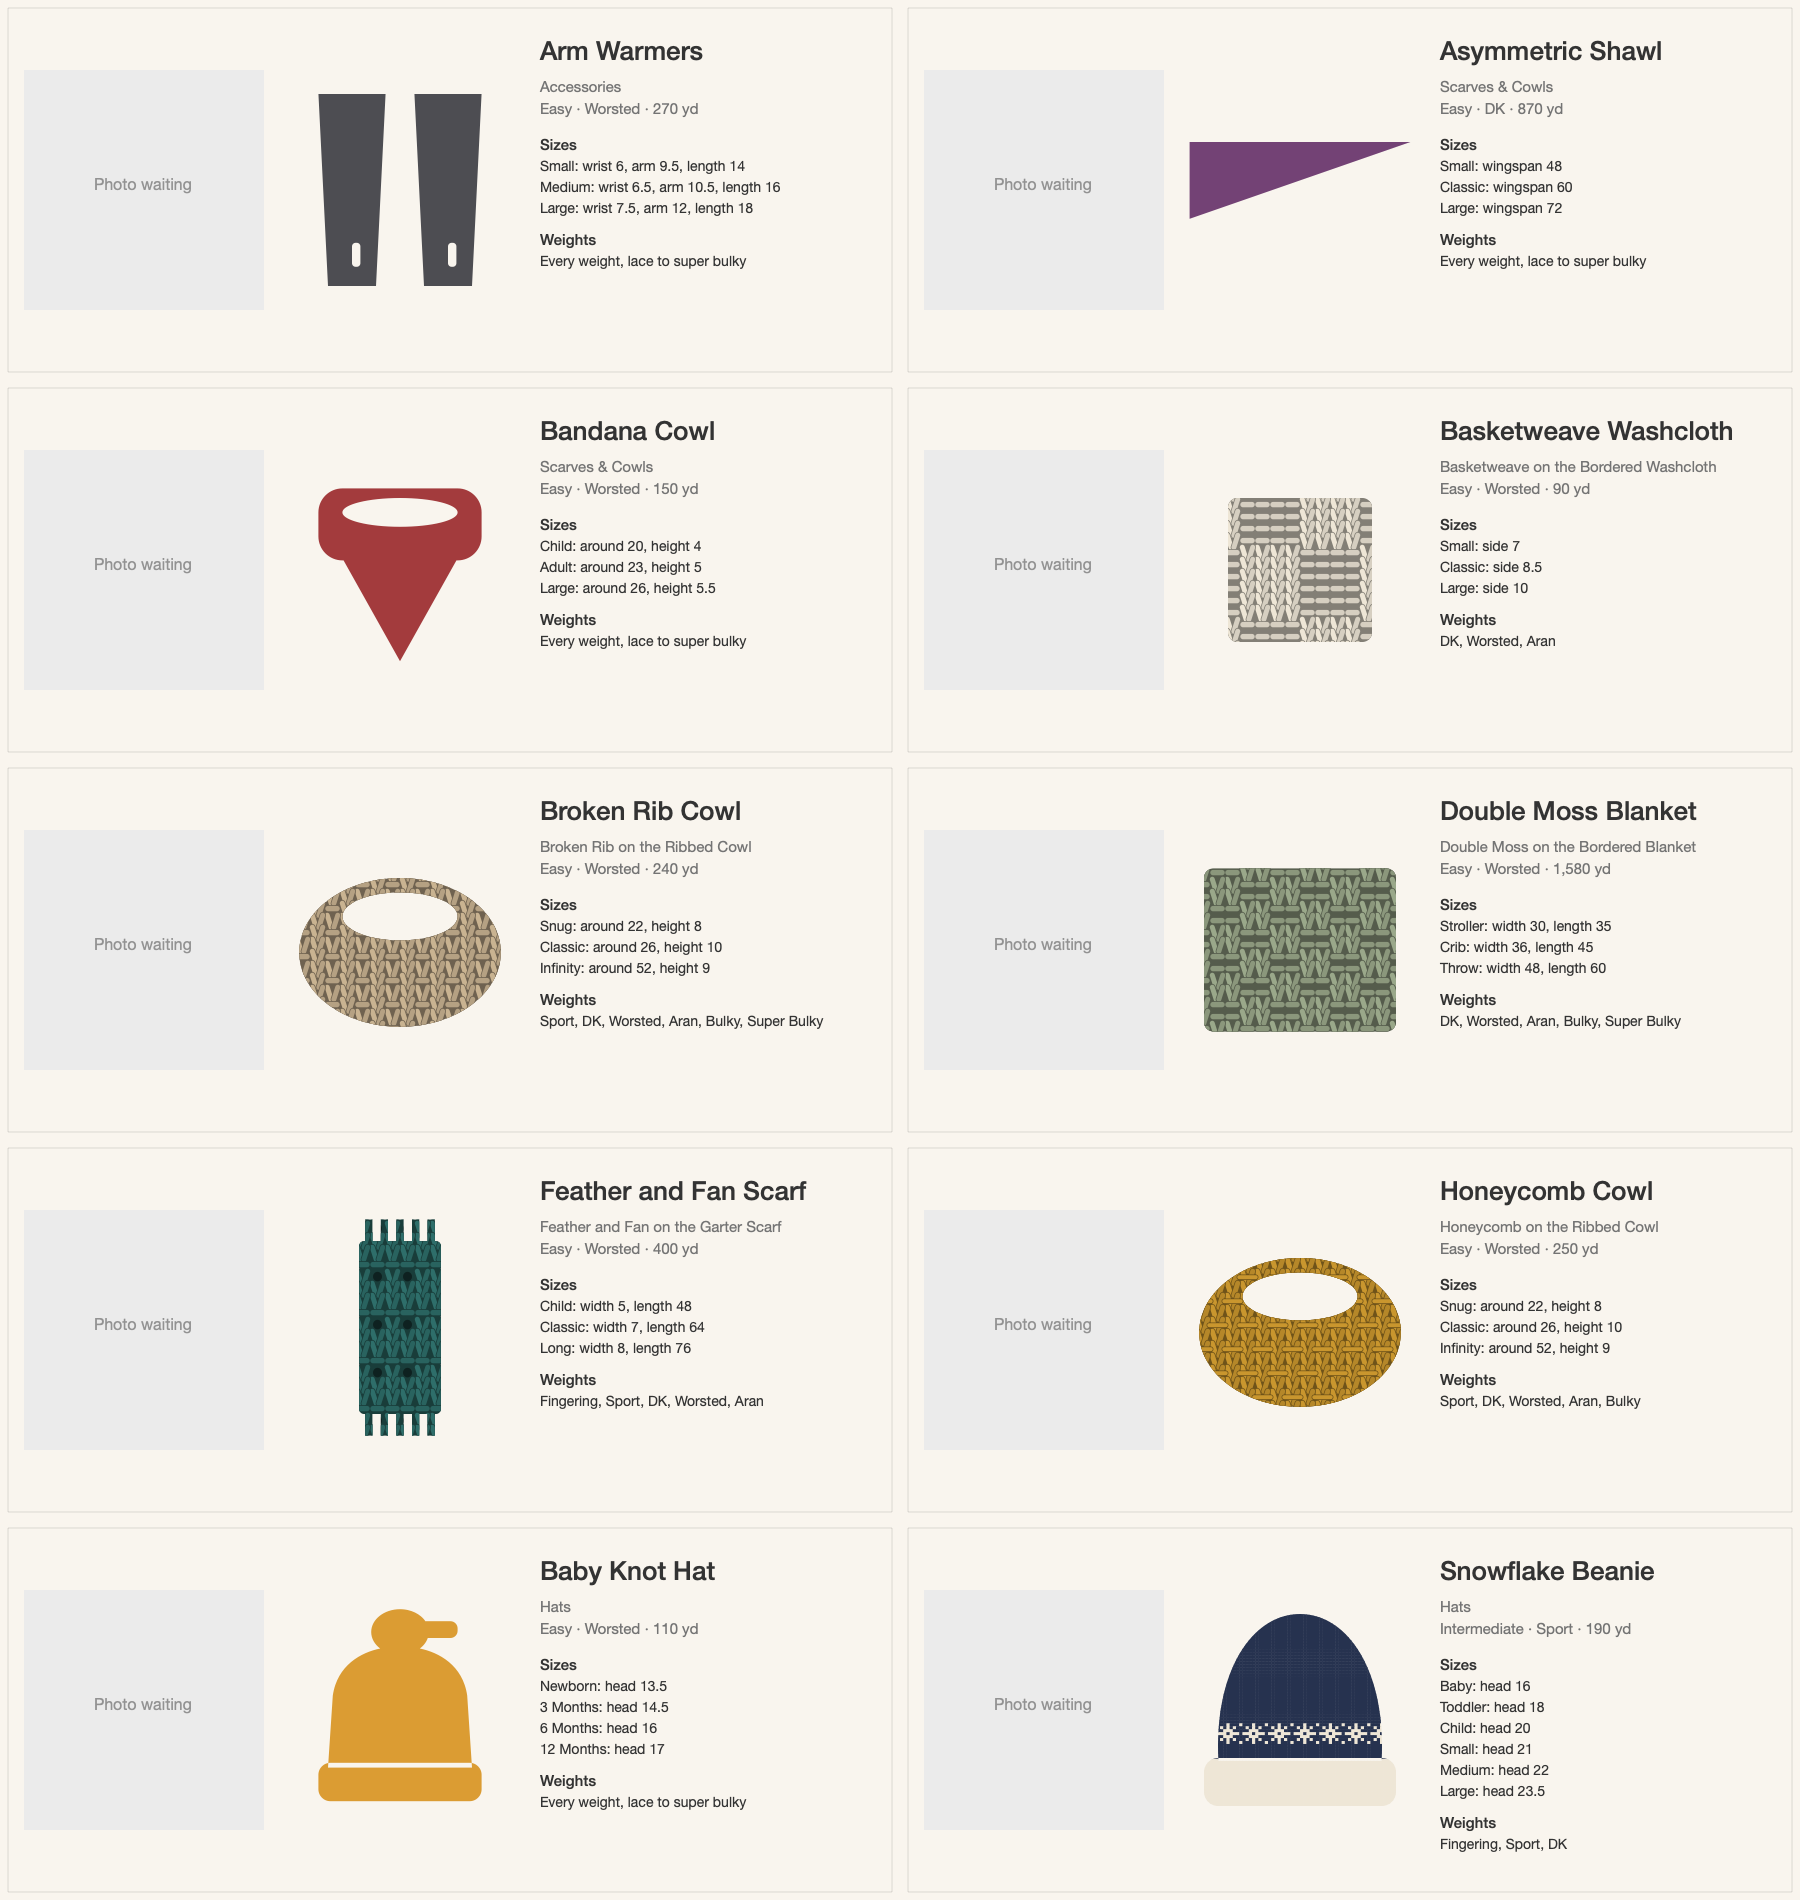
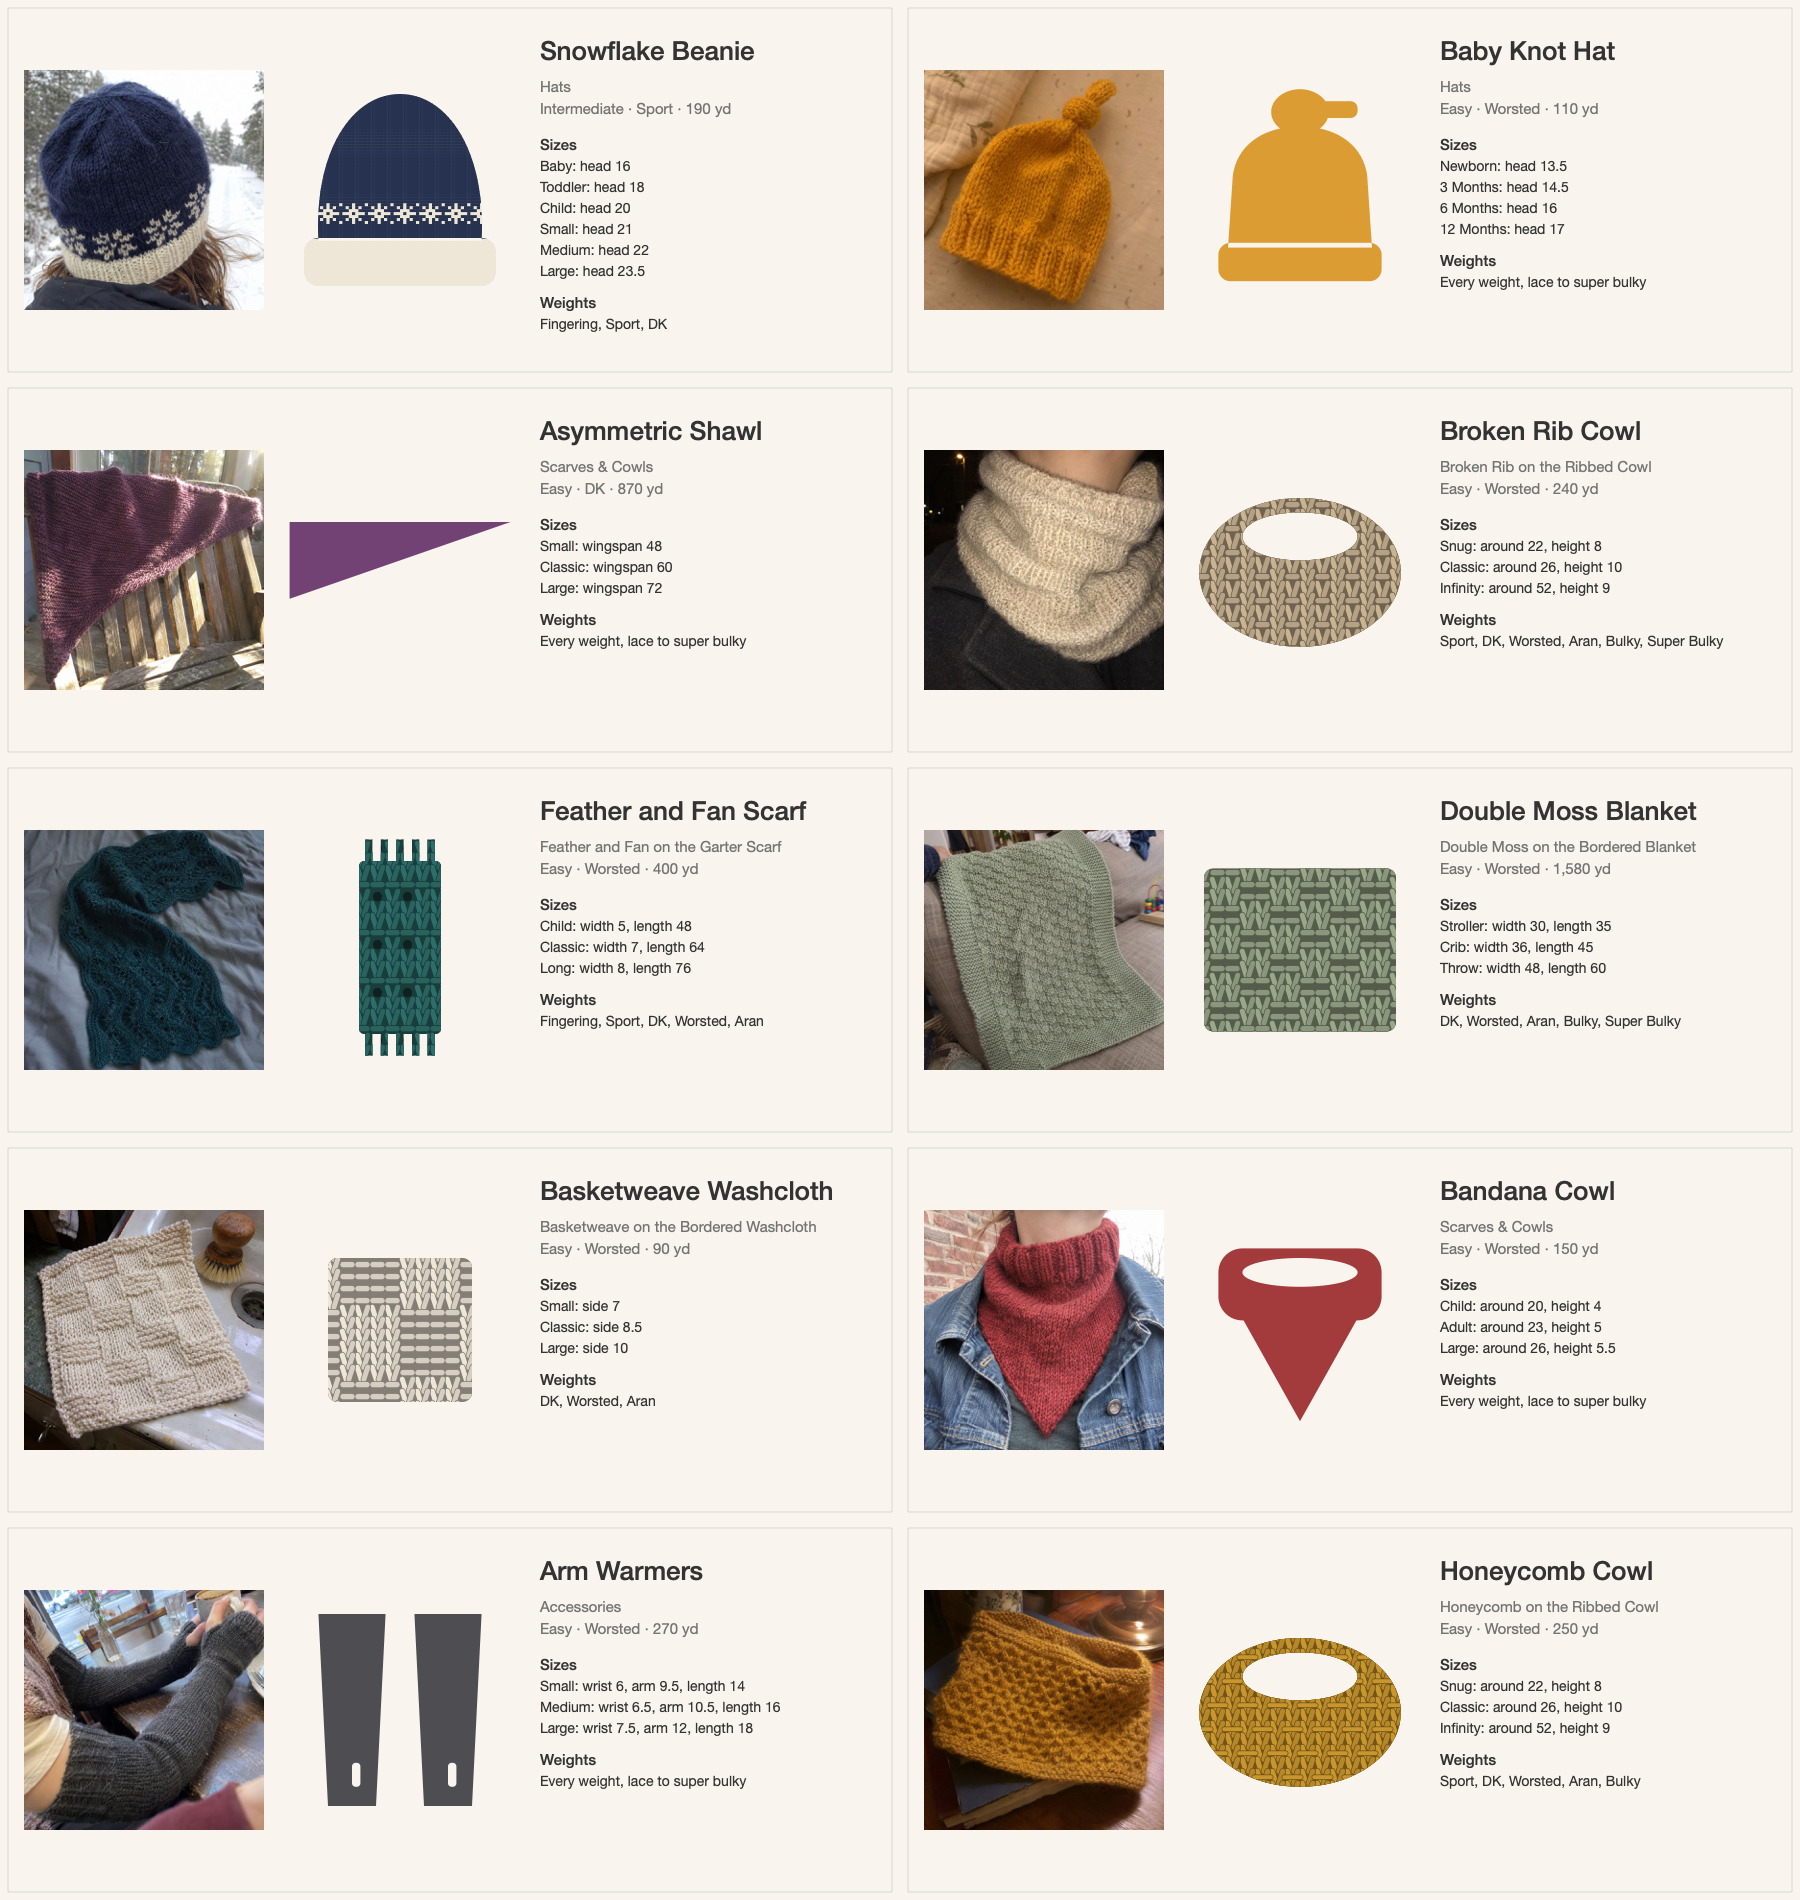
feat(photos): sample photos for batch 2

diff --git a/RavelTests/PatternTests.swift b/RavelTests/PatternTests.swift
@@ -19,7 +19,7 @@ final class PatternTests: XCTestCase {
 
     /// Every built-in design page has its knitted sample photo in the app.
     /// Designs whose photo is not made yet. Each is drawn until its photo is on the site. Empty at a release.
-    static let awaitingPhoto: Set<String> = ["snowflake-beanie", "knotHat", "asymmetricShawl", "broken-rib-cowl", "feather-and-fan-scarf", "double-moss-blanket", "basketweave-washcloth", "bandanaCowl", "armWarmers", "honeycomb-cowl", "watchCap", "chevron-lace-blanket", "hoodedScarf", "striped-scarf", "coasters", "rope-cable-scarf", "babyMittens", "catHat", "seeded-rib-beanie", "eyelet-lace-wrap", "teaCozy", "bootCuffs", "striped-beanie", "kidsCardigan", "linen-stitch-scarf", "babySocks", "waffle-blanket", "mugCozy", "houndstooth-beanie", "capelet", "double-moss-cowl", "placemat", "miniStocking", "rope-cable-mitts", "raglanTee", "honeycomb-beanie", "waffle-washcloth", "feather-and-fan-wrap", "pouch", "color-block-beanie", "twisted-rib-scarf", "bottleCover", "bandanaKerchief", "snowflake-cowl", "broken-rib-beanie", "rope-cable-blanket", "turtleneck", "linen-stitch-washcloth", "star-beanie", "waffle-cowl", "shrug", "gloves", "yokeSweater", "tankTop", "croppedCardigan", "babyPullover", "bucketHat", "toteBag", "babyCocoon", "tubeSocks", "knitBasket", "kidsVest", "tableRunner", "ruana", "scrunchie", "floorPouf", "babyBib", "bathMat", "laptopSleeve", "bauble", "buttonNeckWarmer", "draftStopper", "cowlHood", "bunting", "pixieHat", "polka-dot-beanie", "zigzag-beanie", "wave-beanie", "mushroom-beanie", "strawberry-beanie", "striped-cowl", "heart-cowl", "houndstooth-cowl", "striped-blanket", "color-block-scarf", "striped-mitts", "nordic-band-beanie", "fair-isle-band-cowl", "flower-beanie", "reindeer-beanie"]
+    static let awaitingPhoto: Set<String> = ["watchCap", "chevron-lace-blanket", "hoodedScarf", "striped-scarf", "coasters", "rope-cable-scarf", "babyMittens", "catHat", "seeded-rib-beanie", "eyelet-lace-wrap", "teaCozy", "bootCuffs", "striped-beanie", "kidsCardigan", "linen-stitch-scarf", "babySocks", "waffle-blanket", "mugCozy", "houndstooth-beanie", "capelet", "double-moss-cowl", "placemat", "miniStocking", "rope-cable-mitts", "raglanTee", "honeycomb-beanie", "waffle-washcloth", "feather-and-fan-wrap", "pouch", "color-block-beanie", "twisted-rib-scarf", "bottleCover", "bandanaKerchief", "snowflake-cowl", "broken-rib-beanie", "rope-cable-blanket", "turtleneck", "linen-stitch-washcloth", "star-beanie", "waffle-cowl", "shrug", "gloves", "yokeSweater", "tankTop", "croppedCardigan", "babyPullover", "bucketHat", "toteBag", "babyCocoon", "tubeSocks", "knitBasket", "kidsVest", "tableRunner", "ruana", "scrunchie", "floorPouf", "babyBib", "bathMat", "laptopSleeve", "bauble", "buttonNeckWarmer", "draftStopper", "cowlHood", "bunting", "pixieHat", "polka-dot-beanie", "zigzag-beanie", "wave-beanie", "mushroom-beanie", "strawberry-beanie", "striped-cowl", "heart-cowl", "houndstooth-cowl", "striped-blanket", "color-block-scarf", "striped-mitts", "nordic-band-beanie", "fair-isle-band-cowl", "flower-beanie", "reindeer-beanie"]
 
     private static let root = URL(fileURLWithPath: #filePath).deletingLastPathComponent().deletingLastPathComponent()
 

diff --git a/project-docs/catalog/roadmap.md b/project-docs/catalog/roadmap.md
@@ -48,7 +48,7 @@ shape or edging, or for an AI tell; three failed tries means no photo. New photo
 (`docs/photos/<id>.jpg`, committed on this branch only) and cached on the phone, so the app does not carry
 them. A design whose photo is not accepted stays in `awaitingPhoto` in `PatternTests` and shows its drawing.
 
-Accepted on my read, waiting for the peer's: batch 1 (2026-11-21).
+Accepted on my read, waiting for the peer's: batches 1 and 2 (2026-11-21).
 
 ## The knitter's read (2026-11-21)
 
